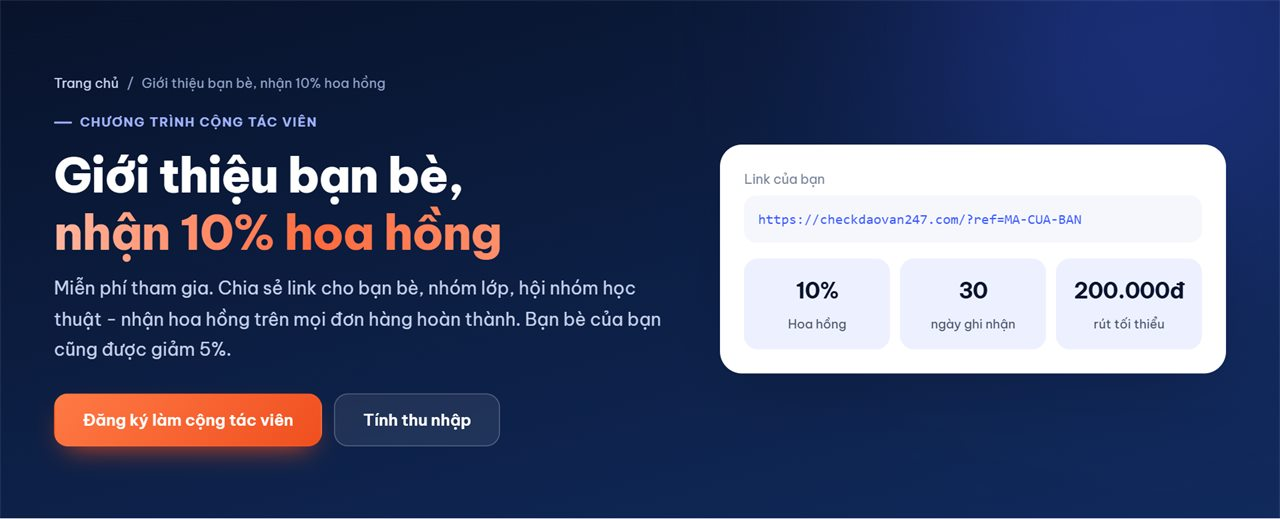
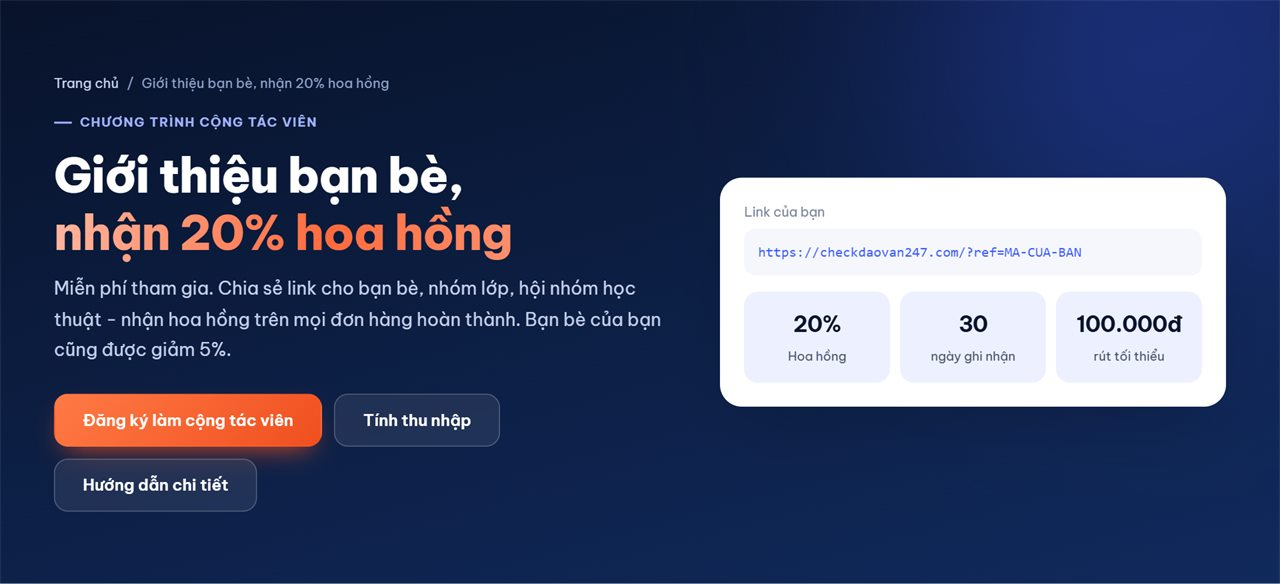
v6.15.1: affiliate commission 20%, minimum payout 100.000đ
- Defaults and one-time update of saved settings
- Guide screenshots and cover retaken with the new numbers; income example uses live settings

diff --git a/style.css b/style.css
@@ -3,7 +3,7 @@ Theme Name: Check Đạo Văn - Check đạo văn & AI
 Theme URI: https://example.com/
 Author: Check Đạo Văn
 Description: Theme WordPress tiếng Việt cho dịch vụ kiểm tra tỷ lệ đạo văn, tỷ lệ AI (Turnitin, iThenticate, Copyleaks, Originality.ai) và dịch vụ giảm tỷ lệ đạo văn dưới 30% / 20%. Có form đặt hàng tự tính giá, quản lý đơn hàng, tra cứu đơn, thanh toán VietQR.
-Version: 6.15.0
+Version: 6.15.1
 Requires at least: 6.0
 Requires PHP: 7.4
 License: GPLv2 or later

diff --git a/inc/content/articles-12.php b/inc/content/articles-12.php
@@ -15,7 +15,7 @@ return array(
 	array(
 		'slug'    => 'huong-dan-chuong-trinh-cong-tac-vien',
 		'cat'     => 'dich-vu',
-		'cover'   => 'huong-dan-chuong-trinh-cong-tac-vien-check-dao-van.jpg',
+		'cover'   => 'huong-dan-chuong-trinh-cong-tac-vien-20-check-dao-van.jpg',
 		'tags'    => array( 'cộng tác viên', 'tiếp thị liên kết', 'kiếm tiền online', 'hoa hồng giới thiệu', 'affiliate' ),
 		'title'   => 'Hướng dẫn chương trình cộng tác viên Check Đạo Văn: Đăng ký, chia sẻ link, nhận hoa hồng và rút tiền',
 		'excerpt' => 'Hướng dẫn từng bước tham gia chương trình cộng tác viên của Check Đạo Văn: tạo tài khoản, lấy link giới thiệu, theo dõi đơn hàng và hoa hồng, cập nhật ngân hàng và rút tiền - kèm 18 ảnh chụp giao diện thật.',
@@ -33,12 +33,12 @@ return array(
 <h2>1. Chương trình cộng tác viên là gì?</h2>
 <p>Đây là chương trình giới thiệu (tiếp thị liên kết) <strong>một cấp</strong>: mỗi tài khoản trên {company} có một link và mã giới thiệu riêng. Khi ai đó vào website qua link của bạn và đặt dịch vụ, đơn hàng được ghi nhận cho bạn. Khi đơn hoàn thành, bạn nhận hoa hồng theo tỷ lệ phần trăm giá trị đơn. Chương trình không thu phí tham gia, không yêu cầu doanh số tối thiểu và không có hoa hồng từ việc tuyển thêm người - bạn chỉ nhận tiền từ dịch vụ thực tế mà khách hàng sử dụng.</p>
 
-<figure><img src="{theme}assets/img/blog/huong-dan-cong-tac-vien-01-trang-cong-tac-vien.jpg" alt="Trang chương trình cộng tác viên Check Đạo Văn với tỷ lệ hoa hồng, thời gian ghi nhận và mức rút tối thiểu" width="1280" height="519" loading="lazy"><figcaption>Ảnh 1: Trang giới thiệu chương trình cộng tác viên tại {home}cong-tac-vien/ - thông số chính hiển thị ngay đầu trang.</figcaption></figure>
+<figure><img src="{theme}assets/img/blog/huong-dan-cong-tac-vien-01-trang-cong-tac-vien.jpg?v=2" alt="Trang chương trình cộng tác viên Check Đạo Văn với tỷ lệ hoa hồng, thời gian ghi nhận và mức rút tối thiểu" width="1280" height="584" loading="lazy"><figcaption>Ảnh 1: Trang giới thiệu chương trình cộng tác viên tại {home}cong-tac-vien/ - thông số chính hiển thị ngay đầu trang.</figcaption></figure>
 
 <p>Ba con số cần nhớ hiển thị ngay trên trang chương trình: <strong>tỷ lệ hoa hồng</strong>, <strong>số ngày ghi nhận</strong> và <strong>số dư tối thiểu để rút</strong>. Các thông số này có thể được điều chỉnh theo từng thời kỳ; con số trên trang luôn là chính sách đang áp dụng.</p>
 
 <h2>2. Cách hoạt động trong 3 bước</h2>
-<figure><img src="{theme}assets/img/blog/huong-dan-cong-tac-vien-02-cach-hoat-dong.jpg" alt="3 bước tham gia chương trình cộng tác viên: tạo tài khoản, chia sẻ link, nhận hoa hồng" width="1280" height="593" loading="lazy"><figcaption>Ảnh 2: Ba bước để bắt đầu: tạo tài khoản, chia sẻ link, nhận hoa hồng.</figcaption></figure>
+<figure><img src="{theme}assets/img/blog/huong-dan-cong-tac-vien-02-cach-hoat-dong.jpg?v=2" alt="3 bước tham gia chương trình cộng tác viên: tạo tài khoản, chia sẻ link, nhận hoa hồng" width="1280" height="593" loading="lazy"><figcaption>Ảnh 2: Ba bước để bắt đầu: tạo tài khoản, chia sẻ link, nhận hoa hồng.</figcaption></figure>
 <ol>
 	<li><strong>Tạo tài khoản:</strong> đăng ký miễn phí, hệ thống cấp ngay mã và link giới thiệu.</li>
 	<li><strong>Chia sẻ link:</strong> gửi cho bạn bè, đăng nhóm lớp, Facebook, Zalo.</li>
@@ -46,23 +46,23 @@ return array(
 </ol>
 
 <h2>3. Bạn có thể nhận được bao nhiêu?</h2>
-<p>Trên trang chương trình có công cụ <strong>ước tính thu nhập</strong>: kéo thanh trượt số đơn được giới thiệu mỗi tháng và giá trị đơn trung bình, hệ thống tính ngay thu nhập dự kiến. Ví dụ, nếu mỗi tháng có 20 đơn với giá trị trung bình 500.000đ, thu nhập ước tính là 1.000.000đ với mức hoa hồng 10%.</p>
-<figure><img src="{theme}assets/img/blog/huong-dan-cong-tac-vien-03-tinh-thu-nhap.jpg" alt="Công cụ ước tính thu nhập cộng tác viên theo số đơn và giá trị đơn trung bình" width="1280" height="644" loading="lazy"><figcaption>Ảnh 3: Công cụ ước tính thu nhập - con số chỉ mang tính tham khảo.</figcaption></figure>
+<p>Trên trang chương trình có công cụ <strong>ước tính thu nhập</strong>: kéo thanh trượt số đơn được giới thiệu mỗi tháng và giá trị đơn trung bình, hệ thống tính ngay thu nhập dự kiến. Ví dụ, nếu mỗi tháng có 20 đơn với giá trị trung bình 500.000đ, với mức hoa hồng [vs_ctv k="pct"], thu nhập ước tính là [vs_ctv k="example"].</p>
+<figure><img src="{theme}assets/img/blog/huong-dan-cong-tac-vien-03-tinh-thu-nhap.jpg?v=2" alt="Công cụ ước tính thu nhập cộng tác viên theo số đơn và giá trị đơn trung bình" width="1280" height="644" loading="lazy"><figcaption>Ảnh 3: Công cụ ước tính thu nhập - con số chỉ mang tính tham khảo.</figcaption></figure>
 <p>Lưu ý: đây chỉ là ước tính. Thu nhập thực tế phụ thuộc số khách bạn giới thiệu, dịch vụ họ chọn (kiểm tra đạo văn có giá thấp hơn dịch vụ biên tập) và số đơn hoàn thành. Hãy coi đây là nguồn thu nhập thêm từ việc giới thiệu dịch vụ hữu ích, không phải một cam kết thu nhập.</p>
 
 <h2>Bước 1: Tạo tài khoản miễn phí</h2>
 <p>Vào <a href="{home}tai-khoan/?dang-ky=1">trang đăng ký tài khoản</a> hoặc bấm nút “Đăng ký làm cộng tác viên” trên trang chương trình. Điền họ tên, số điện thoại, email và mật khẩu (ít nhất 8 ký tự), đánh dấu đồng ý điều khoản rồi bấm <strong>Tạo tài khoản</strong>.</p>
-<figure><img src="{theme}assets/img/blog/huong-dan-cong-tac-vien-05-dang-ky-tai-khoan.jpg" alt="Form tạo tài khoản miễn phí trên Check Đạo Văn" width="693" height="899" loading="lazy"><figcaption>Ảnh 4: Form tạo tài khoản - chỉ mất khoảng 30 giây.</figcaption></figure>
+<figure><img src="{theme}assets/img/blog/huong-dan-cong-tac-vien-05-dang-ky-tai-khoan.jpg?v=2" alt="Form tạo tài khoản miễn phí trên Check Đạo Văn" width="693" height="899" loading="lazy"><figcaption>Ảnh 4: Form tạo tài khoản - chỉ mất khoảng 30 giây.</figcaption></figure>
 <div class="callout callout--tip"><b>Mẹo</b>Dùng đúng số điện thoại của bạn. Số điện thoại vừa là thông tin đăng nhập, vừa giúp hệ thống nhận biết và không tính hoa hồng cho đơn bạn tự đặt cho chính mình.</div>
 
 <h2>Bước 2: Mở trang Cộng tác viên trong tài khoản</h2>
 <p>Sau khi đăng nhập, bạn vào trang tổng quan tài khoản. Có hai cách mở khu vực cộng tác viên: bấm thẻ <strong>“Giới thiệu bạn bè”</strong> ở giữa trang, hoặc chọn mục <strong>“Cộng tác viên”</strong> ở menu bên trái.</p>
-<figure><img src="{theme}assets/img/blog/huong-dan-cong-tac-vien-06-tai-khoan-tong-quan.jpg" alt="Trang tổng quan tài khoản với thẻ Giới thiệu bạn bè và menu Cộng tác viên" width="1280" height="780" loading="lazy"><figcaption>Ảnh 5: Trang tổng quan tài khoản - thẻ “Giới thiệu bạn bè” và menu “Cộng tác viên”.</figcaption></figure>
-<figure><img src="{theme}assets/img/blog/huong-dan-cong-tac-vien-07a-tab-cong-tac-vien.jpg" alt="Khu vực Cộng tác viên trong tài khoản với link, mã giới thiệu, thống kê và rút tiền" width="1280" height="860" loading="lazy"><figcaption>Ảnh 6: Toàn cảnh khu vực Cộng tác viên: link, mã, thống kê và rút tiền trên cùng một màn hình.</figcaption></figure>
+<figure><img src="{theme}assets/img/blog/huong-dan-cong-tac-vien-06-tai-khoan-tong-quan.jpg?v=2" alt="Trang tổng quan tài khoản với thẻ Giới thiệu bạn bè và menu Cộng tác viên" width="1280" height="780" loading="lazy"><figcaption>Ảnh 5: Trang tổng quan tài khoản - thẻ “Giới thiệu bạn bè” và menu “Cộng tác viên”.</figcaption></figure>
+<figure><img src="{theme}assets/img/blog/huong-dan-cong-tac-vien-07a-tab-cong-tac-vien.jpg?v=2" alt="Khu vực Cộng tác viên trong tài khoản với link, mã giới thiệu, thống kê và rút tiền" width="1280" height="860" loading="lazy"><figcaption>Ảnh 6: Toàn cảnh khu vực Cộng tác viên: link, mã, thống kê và rút tiền trên cùng một màn hình.</figcaption></figure>
 
 <h2>Bước 3: Lấy link, mã giới thiệu và chia sẻ</h2>
 <p>Ở đầu trang Cộng tác viên là <strong>link giới thiệu</strong> và <strong>mã giới thiệu</strong> riêng của bạn. Bấm <strong>Sao chép</strong> để copy, hoặc dùng nút <strong>Chia sẻ Facebook</strong>, <strong>Chia sẻ Zalo</strong> để đăng nhanh.</p>
-<figure><img src="{theme}assets/img/blog/huong-dan-cong-tac-vien-07-link-va-ma-gioi-thieu.jpg" alt="Link giới thiệu và mã giới thiệu cộng tác viên với nút sao chép và chia sẻ" width="1280" height="280" loading="lazy"><figcaption>Ảnh 7: Link và mã giới thiệu - bấm “Sao chép” hoặc chia sẻ thẳng lên Facebook, Zalo.</figcaption></figure>
+<figure><img src="{theme}assets/img/blog/huong-dan-cong-tac-vien-07-link-va-ma-gioi-thieu.jpg?v=2" alt="Link giới thiệu và mã giới thiệu cộng tác viên với nút sao chép và chia sẻ" width="1280" height="280" loading="lazy"><figcaption>Ảnh 7: Link và mã giới thiệu - bấm “Sao chép” hoặc chia sẻ thẳng lên Facebook, Zalo.</figcaption></figure>
 <p>Bạn có thể gắn mã giới thiệu vào bất kỳ trang nào của website, không chỉ trang chủ. Ví dụ, khi chia sẻ một bài hướng dẫn hữu ích, chỉ cần thêm <code>?ref=MÃ-CỦA-BẠN</code> vào cuối đường dẫn:</p>
 <ul>
 	<li><code>{home}?ref=MÃ-CỦA-BẠN</code> - trang chủ</li>
@@ -70,17 +70,17 @@ return array(
 	<li><code>{home}kiem-tra-ai-la-gi/?ref=MÃ-CỦA-BẠN</code> - bài hướng dẫn kiểm tra AI</li>
 </ul>
 <p>Giao diện cộng tác viên hiển thị tốt trên điện thoại, nên bạn có thể sao chép và gửi link ngay trong lúc nhắn tin.</p>
-<figure><img src="{theme}assets/img/blog/huong-dan-cong-tac-vien-16-dien-thoai.jpg" alt="Giao diện cộng tác viên trên điện thoại" width="780" height="1688" loading="lazy"><figcaption>Ảnh 8: Khu vực Cộng tác viên trên điện thoại.</figcaption></figure>
+<figure><img src="{theme}assets/img/blog/huong-dan-cong-tac-vien-16-dien-thoai.jpg?v=2" alt="Giao diện cộng tác viên trên điện thoại" width="780" height="1688" loading="lazy"><figcaption>Ảnh 8: Khu vực Cộng tác viên trên điện thoại.</figcaption></figure>
 
 <h2>Bước 4: Bạn bè của bạn nhận được gì?</h2>
 <p>Khi bạn bè bấm vào link của bạn, hệ thống ghi nhận lượt giới thiệu trong [vs_ctv k="days"]. Trong thời gian đó, họ được ưu đãi [vs_ctv k="discount"] cho đơn hàng. Nếu họ tạo tài khoản, form đăng ký hiển thị rõ thông báo đang được giới thiệu bởi cộng tác viên, và tài khoản đó được gắn với bạn lâu dài cho các đơn sau.</p>
-<figure><img src="{theme}assets/img/blog/huong-dan-cong-tac-vien-10-khach-duoc-gioi-thieu-dang-ky.jpg" alt="Thông báo ưu đãi khi khách được giới thiệu tạo tài khoản" width="693" height="1061" loading="lazy"><figcaption>Ảnh 9: Khách vào qua link giới thiệu thấy thông báo ưu đãi ngay khi đăng ký.</figcaption></figure>
+<figure><img src="{theme}assets/img/blog/huong-dan-cong-tac-vien-10-khach-duoc-gioi-thieu-dang-ky.jpg?v=2" alt="Thông báo ưu đãi khi khách được giới thiệu tạo tài khoản" width="693" height="1061" loading="lazy"><figcaption>Ảnh 9: Khách vào qua link giới thiệu thấy thông báo ưu đãi ngay khi đăng ký.</figcaption></figure>
 <p>Ở trang đặt hàng, khoản ưu đãi được tự động trừ trong phần <strong>Tạm tính</strong>, khách không cần nhập mã. Lưu ý ưu đãi giới thiệu không cộng dồn với mã giảm giá khác.</p>
-<figure><img src="{theme}assets/img/blog/huong-dan-cong-tac-vien-11-uu-dai-khi-dat-hang.jpg" alt="Ưu đãi giới thiệu tự động trừ trong phần tạm tính đơn hàng" width="618" height="794" loading="lazy"><figcaption>Ảnh 10: Dòng “Ưu đãi giới thiệu” tự động xuất hiện khi khách đặt hàng.</figcaption></figure>
+<figure><img src="{theme}assets/img/blog/huong-dan-cong-tac-vien-11-uu-dai-khi-dat-hang.jpg?v=2" alt="Ưu đãi giới thiệu tự động trừ trong phần tạm tính đơn hàng" width="618" height="794" loading="lazy"><figcaption>Ảnh 10: Dòng “Ưu đãi giới thiệu” tự động xuất hiện khi khách đặt hàng.</figcaption></figure>
 
 <h2>Bước 5: Theo dõi thống kê theo thời gian thực</h2>
 <p>Ngay dưới link giới thiệu là 6 ô thống kê giúp bạn biết hiệu quả chia sẻ:</p>
-<figure><img src="{theme}assets/img/blog/huong-dan-cong-tac-vien-08-thong-ke-hoa-hong.jpg" alt="Bảng thống kê lượt click, khách đăng ký, đơn được giới thiệu và hoa hồng" width="1280" height="367" loading="lazy"><figcaption>Ảnh 11: Thống kê lượt click, khách đăng ký, đơn hàng và hoa hồng.</figcaption></figure>
+<figure><img src="{theme}assets/img/blog/huong-dan-cong-tac-vien-08-thong-ke-hoa-hong.jpg?v=2" alt="Bảng thống kê lượt click, khách đăng ký, đơn được giới thiệu và hoa hồng" width="1280" height="367" loading="lazy"><figcaption>Ảnh 11: Thống kê lượt click, khách đăng ký, đơn hàng và hoa hồng.</figcaption></figure>
 <ul>
 	<li><strong>Lượt click:</strong> số lần link của bạn được bấm (mỗi người được tính một lần trong thời gian ghi nhận).</li>
 	<li><strong>Khách đăng ký:</strong> số người tạo tài khoản qua link của bạn.</li>
@@ -92,7 +92,7 @@ return array(
 
 <h2>Bước 6: Theo dõi từng đơn hàng và trạng thái hoa hồng</h2>
 <p>Bảng <strong>Đơn hàng được giới thiệu</strong> liệt kê từng đơn: ngày đặt, khách hàng (tên được ẩn một phần để bảo vệ thông tin cá nhân), giá trị đơn, hoa hồng và trạng thái.</p>
-<figure><img src="{theme}assets/img/blog/huong-dan-cong-tac-vien-12-don-hang-duoc-gioi-thieu.jpg" alt="Danh sách đơn hàng được giới thiệu với hoa hồng và trạng thái" width="1280" height="739" loading="lazy"><figcaption>Ảnh 12: Danh sách đơn được giới thiệu - tên khách được ẩn một phần để bảo mật.</figcaption></figure>
+<figure><img src="{theme}assets/img/blog/huong-dan-cong-tac-vien-12-don-hang-duoc-gioi-thieu.jpg?v=2" alt="Danh sách đơn hàng được giới thiệu với hoa hồng và trạng thái" width="1280" height="739" loading="lazy"><figcaption>Ảnh 12: Danh sách đơn được giới thiệu - tên khách được ẩn một phần để bảo mật.</figcaption></figure>
 <table>
 	<thead><tr><th>Trạng thái</th><th>Ý nghĩa</th></tr></thead>
 	<tbody>
@@ -104,20 +104,20 @@ return array(
 
 <h2>Bước 7: Cập nhật tài khoản ngân hàng nhận hoa hồng</h2>
 <p>Trước khi rút tiền lần đầu, vào <strong>Thông tin tài khoản</strong> và điền mục <strong>Tài khoản nhận hoa hồng</strong>: tên ngân hàng, số tài khoản và tên chủ tài khoản (in hoa, không dấu, trùng với tên trên ngân hàng). Bấm <strong>Lưu thông tin</strong>.</p>
-<figure><img src="{theme}assets/img/blog/huong-dan-cong-tac-vien-09-thong-tin-ngan-hang.jpg" alt="Cập nhật tài khoản ngân hàng nhận hoa hồng cộng tác viên" width="1280" height="704" loading="lazy"><figcaption>Ảnh 13: Điền thông tin ngân hàng nhận hoa hồng trong mục Thông tin tài khoản.</figcaption></figure>
+<figure><img src="{theme}assets/img/blog/huong-dan-cong-tac-vien-09-thong-tin-ngan-hang.jpg?v=2" alt="Cập nhật tài khoản ngân hàng nhận hoa hồng cộng tác viên" width="1280" height="704" loading="lazy"><figcaption>Ảnh 13: Điền thông tin ngân hàng nhận hoa hồng trong mục Thông tin tài khoản.</figcaption></figure>
 <div class="callout callout--info"><b>Lưu ý</b>Chủ tài khoản ngân hàng nên là chính bạn. Thông tin sai có thể khiến việc chuyển khoản bị chậm hoặc bị trả lại.</div>
 
 <h2>Bước 8: Gửi yêu cầu rút tiền</h2>
 <p>Khi số dư <strong>Có thể rút</strong> đạt mức tối thiểu [vs_ctv k="min"], khung <strong>Rút tiền</strong> hiển thị tài khoản nhận và nút <strong>Yêu cầu rút</strong> kèm số tiền. Bấm nút để gửi yêu cầu.</p>
-<figure><img src="{theme}assets/img/blog/huong-dan-cong-tac-vien-13-yeu-cau-rut-tien.jpg" alt="Khung rút tiền với nút yêu cầu rút hoa hồng" width="1280" height="237" loading="lazy"><figcaption>Ảnh 14: Khung Rút tiền - kiểm tra lại tài khoản nhận trước khi bấm.</figcaption></figure>
+<figure><img src="{theme}assets/img/blog/huong-dan-cong-tac-vien-13-yeu-cau-rut-tien.jpg?v=2" alt="Khung rút tiền với nút yêu cầu rút hoa hồng" width="1280" height="237" loading="lazy"><figcaption>Ảnh 14: Khung Rút tiền - kiểm tra lại tài khoản nhận trước khi bấm.</figcaption></figure>
 <p>Hệ thống xác nhận đã nhận yêu cầu và thông báo thời gian xử lý:</p>
-<figure><img src="{theme}assets/img/blog/huong-dan-cong-tac-vien-14a-thong-bao-da-gui.jpg" alt="Thông báo đã gửi yêu cầu rút tiền thành công" width="1280" height="115" loading="lazy"><figcaption>Ảnh 15: Thông báo gửi yêu cầu rút tiền thành công.</figcaption></figure>
+<figure><img src="{theme}assets/img/blog/huong-dan-cong-tac-vien-14a-thong-bao-da-gui.jpg?v=2" alt="Thông báo đã gửi yêu cầu rút tiền thành công" width="1280" height="115" loading="lazy"><figcaption>Ảnh 15: Thông báo gửi yêu cầu rút tiền thành công.</figcaption></figure>
 <p>Trong lúc chờ, khung Rút tiền hiển thị số tiền <strong>đang chờ chuyển khoản</strong>. Mỗi lần chỉ có một yêu cầu đang chờ; khi yêu cầu này được xử lý, bạn có thể gửi yêu cầu mới.</p>
-<figure><img src="{theme}assets/img/blog/huong-dan-cong-tac-vien-14-cho-chuyen-khoan.jpg" alt="Trạng thái đang chờ chuyển khoản hoa hồng" width="1280" height="235" loading="lazy"><figcaption>Ảnh 16: Trạng thái đang chờ chuyển khoản.</figcaption></figure>
+<figure><img src="{theme}assets/img/blog/huong-dan-cong-tac-vien-14-cho-chuyen-khoan.jpg?v=2" alt="Trạng thái đang chờ chuyển khoản hoa hồng" width="1280" height="235" loading="lazy"><figcaption>Ảnh 16: Trạng thái đang chờ chuyển khoản.</figcaption></figure>
 
 <h2>Bước 9: Theo dõi lịch sử rút tiền</h2>
 <p>Bảng <strong>Lịch sử rút tiền</strong> ghi lại mọi yêu cầu cùng trạng thái: <em>Chờ chuyển khoản</em>, <em>Đã chuyển</em> hoặc <em>Từ chối</em> (ví dụ khi thông tin ngân hàng không hợp lệ). Thời gian chuyển khoản thường trong 1-3 ngày làm việc.</p>
-<figure><img src="{theme}assets/img/blog/huong-dan-cong-tac-vien-15-lich-su-rut-tien.jpg" alt="Lịch sử rút tiền hoa hồng cộng tác viên" width="1280" height="375" loading="lazy"><figcaption>Ảnh 17: Lịch sử rút tiền với trạng thái từng lần.</figcaption></figure>
+<figure><img src="{theme}assets/img/blog/huong-dan-cong-tac-vien-15-lich-su-rut-tien.jpg?v=2" alt="Lịch sử rút tiền hoa hồng cộng tác viên" width="1280" height="375" loading="lazy"><figcaption>Ảnh 17: Lịch sử rút tiền với trạng thái từng lần.</figcaption></figure>
 
 <h2>Quy định quan trọng cần nắm</h2>
 <ul class="checklist">
@@ -128,7 +128,7 @@ return array(
 	<li><strong>Một cấp, không thu phí:</strong> không có hoa hồng từ việc tuyển thêm cộng tác viên.</li>
 	<li><strong>Thuế thu nhập cá nhân:</strong> hoa hồng là thu nhập chịu thuế theo quy định; khi chi trả có thể được khấu trừ thuế và cần thông tin để kê khai.</li>
 </ul>
-<figure><img src="{theme}assets/img/blog/huong-dan-cong-tac-vien-04-cau-hoi-thuong-gap.jpg" alt="Câu hỏi thường gặp về chương trình cộng tác viên" width="1280" height="982" loading="lazy"><figcaption>Ảnh 18: Mục câu hỏi về chương trình trên trang cộng tác viên.</figcaption></figure>
+<figure><img src="{theme}assets/img/blog/huong-dan-cong-tac-vien-04-cau-hoi-thuong-gap.jpg?v=2" alt="Câu hỏi thường gặp về chương trình cộng tác viên" width="1280" height="1033" loading="lazy"><figcaption>Ảnh 18: Mục câu hỏi về chương trình trên trang cộng tác viên.</figcaption></figure>
 
 <h2>Mẹo chia sẻ hiệu quả và có trách nhiệm</h2>
 <ol>

diff --git a/inc/settings.php b/inc/settings.php
@@ -35,9 +35,9 @@ function vs_settings_fields() {
 			'coupons' => array( 'Danh sách mã (mỗi dòng 1 mã)', "SINHVIEN10|10\nTET2027|15|28/02/2027\nGIAM20|20||reduce", 'textarea', 'Cú pháp: MÃ|phần trăm giảm|hạn dùng dd/mm/yyyy (tùy chọn)|check hoặc reduce (tùy chọn - chỉ áp dụng cho 1 dịch vụ)' ),
 		),
 		'Cộng tác viên (Affiliate)' => array(
-			'aff_pct'      => array( 'Hoa hồng cho cộng tác viên (%)', '10', 'text', 'Tính trên giá trị đơn hàng hoàn thành của khách được giới thiệu.' ),
+			'aff_pct'      => array( 'Hoa hồng cho cộng tác viên (%)', '20', 'text', 'Tính trên giá trị đơn hàng hoàn thành của khách được giới thiệu.' ),
 			'ref_discount' => array( 'Ưu đãi cho khách được giới thiệu (%)', '5', 'text', 'Tự áp dụng khi khách vào web qua link giới thiệu (nếu không dùng mã giảm giá khác).' ),
-			'payout_min'   => array( 'Số dư tối thiểu để rút (đ)', '200000' ),
+			'payout_min'   => array( 'Số dư tối thiểu để rút (đ)', '100000' ),
 			'ref_days'     => array( 'Thời hạn ghi nhận giới thiệu (ngày)', '30' ),
 		),
 		'Thông báo Telegram'    => array(

diff --git a/inc/content.php b/inc/content.php
@@ -58,7 +58,7 @@ add_action( 'admin_init', function () {
 } );
 /* Có bài mẫu / nội dung mới sau khi theme tự cập nhật: nhập ở nền (WP-Cron), không cần mở trang quản trị. */
 add_action( 'init', function () {
-	if ( (int) get_option( 'vs_content_imported' ) < 22 && ! wp_next_scheduled( 'vs_run_import' ) ) {
+	if ( (int) get_option( 'vs_content_imported' ) < 23 && ! wp_next_scheduled( 'vs_run_import' ) ) {
 		wp_schedule_single_event( time() + 5, 'vs_run_import' );
 	}
 } );
@@ -74,7 +74,7 @@ function vs_maybe_import() {
 	if ( get_transient( 'vs_su_lock' ) ) {
 		return;
 	}
-	if ( (int) get_option( 'vs_content_imported' ) < 22 ) {
+	if ( (int) get_option( 'vs_content_imported' ) < 23 ) {
 		$old_mail = vs_opt( 'email', get_option( 'admin_email' ) );
 		vs_contact_migrate( $old_mail );
 		$n = vs_import_content();
@@ -84,7 +84,7 @@ function vs_maybe_import() {
 			vs_brand_migrate( $old_mail, VS_EMAIL );
 		}
 		vs_brand_migrate( 'CheckĐạoVăn', VS_BRAND );
-		update_option( 'vs_content_imported', 22 );
+		update_option( 'vs_content_imported', 23 );
 		update_option( 'vs_import_log', array( 'time' => time(), 'v' => VS_VERSION, 'n' => $n ), false );
 	}
 }

diff --git a/functions.php b/functions.php
@@ -7,7 +7,7 @@ if ( ! defined( 'ABSPATH' ) ) {
 	exit;
 }
 
-define( 'VS_VERSION', '6.15.0' );
+define( 'VS_VERSION', '6.15.1' );
 define( 'VS_BRAND', 'Check Đạo Văn' );       // Tên thương hiệu mặc định (đổi trong Cài đặt > Chung > Tên website).
 define( 'VS_DOMAIN', 'checkdaovan247.com' );          // Tên miền chính thức.
 define( 'VS_EMAIL', 'hotro@checkdaovan247.com' );     // Email hỗ trợ mặc định.
@@ -86,9 +86,9 @@ function vs_opt_defaults() {
 		'bank_name'    => 'NCB Bank (Quốc Dân)',
 		'bank_account' => '106936837029',
 		'bank_holder'  => 'PHAM VAN KHANH',
-		'aff_pct'      => 10,
+		'aff_pct'      => 20,
 		'ref_discount' => 5,
-		'payout_min'   => 200000,
+		'payout_min'   => 100000,
 		'ref_days'     => 30,
 	);
 }

diff --git a/inc/affiliate.php b/inc/affiliate.php
@@ -10,6 +10,20 @@ if ( ! defined( 'ABSPATH' ) ) {
 	exit;
 }
 
+/* Chính sách cộng tác viên từ 20/10/2026: hoa hồng 20%, rút tối thiểu 100.000đ (áp dụng 1 lần cho dữ liệu đã lưu). */
+add_action( 'init', function () {
+	if ( get_option( 'vs_aff_policy_202610' ) ) {
+		return;
+	}
+	$s = get_option( 'vs_settings', array() );
+	if ( is_array( $s ) && $s ) {
+		$s['aff_pct']    = '20';
+		$s['payout_min'] = '100000';
+		update_option( 'vs_settings', $s );
+	}
+	update_option( 'vs_aff_policy_202610', 1 );
+} );
+
 /* ---------- Mã & link giới thiệu ---------- */
 
 function vs_aff_code( $uid ) {

diff --git a/inc/extras.php b/inc/extras.php
@@ -341,6 +341,8 @@ add_shortcode( 'vs_ctv', function ( $a ) {
 			return esc_html( (int) vs_opt( 'ref_days' ) . ' ngày' );
 		case 'min':
 			return esc_html( vs_money( (int) vs_opt( 'payout_min' ) ) );
+		case 'example': // 20 đơn x 500.000đ x tỷ lệ hoa hồng.
+			return esc_html( vs_money( (int) round( 20 * 500000 * (float) vs_opt( 'aff_pct' ) / 100 ) ) );
 		default:
 			return esc_html( (float) vs_opt( 'aff_pct' ) . '%' );
 	}
